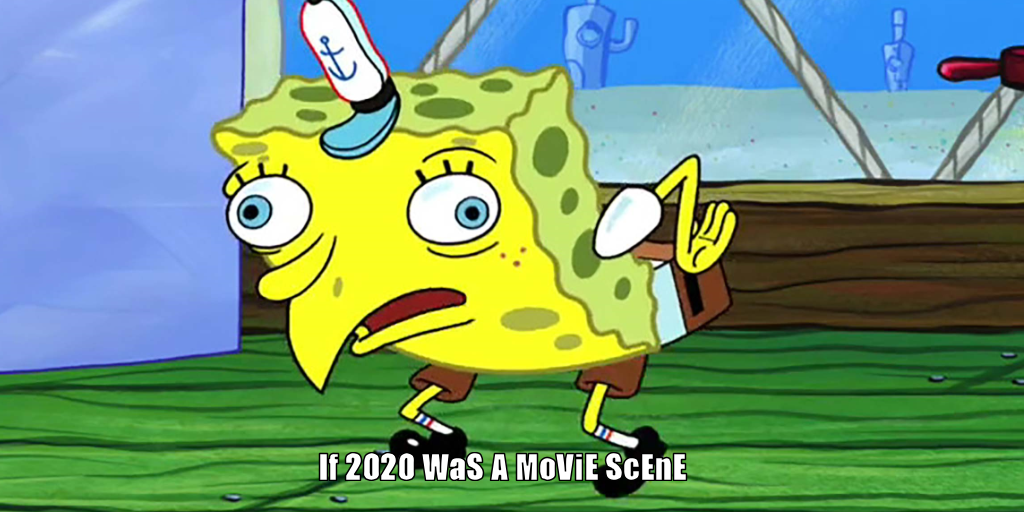
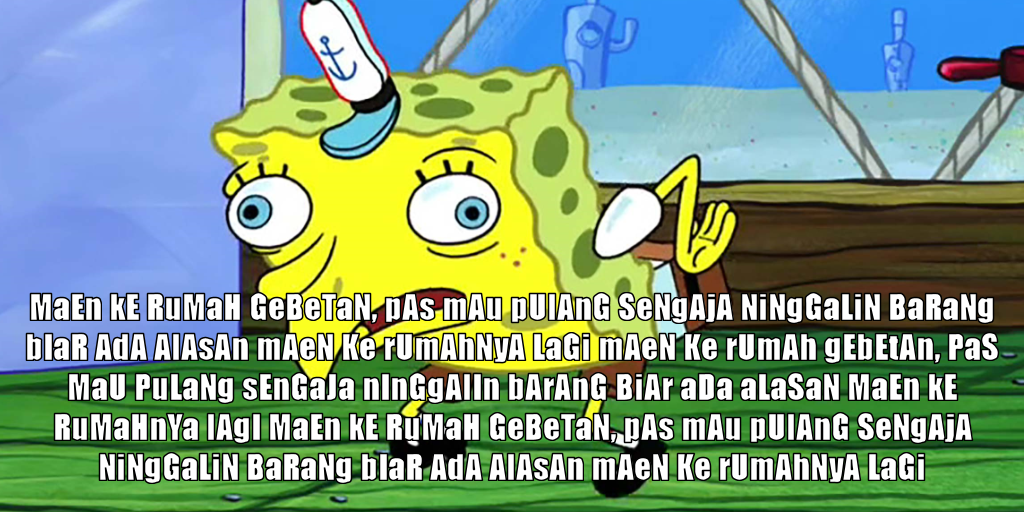
✨ add method mock in emoji

Changed region(s): [[0.0, 0.5625, 1.0, 0.9688]]

diff --git a/Mockit.js b/Mockit.js
@@ -1,8 +1,41 @@
 const config = require('./configuration');
 const Memeify = require('./Memeify');
 const TextFormatter = require('./TextFormatter');
-const { getTargetTweet, updateTweetWithMock } = require('./twitterClient');
+const {
+  getTargetTweet,
+  updateTweetWithMock,
+  updateTweet,
+} = require('./twitterClient');
 const memeGenerator = new Memeify();
+
+async function generateMock(type, mention) {
+  let targetTweetId = mention.in_reply_to_status_id_str;
+  const targetTweet = await getTargetTweet(targetTweetId);
+
+  const textFormatter = new TextFormatter(targetTweet);
+  let imagePath = null;
+  let mockTextResult = null;
+
+  if (type == 'spongebob') {
+    mockTextResult = textFormatter.mockText();
+    imagePath = await memeGenerator.generateMeme(type, mockTextResult);
+  } else if (type == 'khaleesi') {
+    mockTextResult = textFormatter.mickTixt();
+    imagePath = await memeGenerator.generateMeme(type, mockTextResult);
+  }
+
+  updateTweetWithMock(mention.id_str, mockTextResult, imagePath);
+}
+
+async function generateMockEmoji(mention, emoji) {
+  let targetTweetId = mention.in_reply_to_status_id_str;
+  const targetTweet = await getTargetTweet(targetTweetId);
+
+  const textFormatter = new TextFormatter(targetTweet);
+  const textTransformoji = textFormatter.transformoji(emoji);
+
+  updateTweet(mention.id_str, textTransformoji);
+}
 
 async function replyWithMock(event) {
   if (!event.tweet_create_events) {
@@ -20,23 +53,24 @@ async function replyWithMock(event) {
     return;
   }
 
-  if (texts.includes('please')) {
-    let targetUser = mention.in_reply_to_user_id_str;
-    targetUser = Number(targetUser);
+  let targetUser = mention.in_reply_to_user_id_str;
+  targetUser = Number(targetUser);
 
-    if (config.exclusive_ids.includes(targetUser)) {
-      return;
-    } else {
-      let targetTweetId = mention.in_reply_to_status_id_str;
-      const targetTweet = await getTargetTweet(targetTweetId);
-
-      const textFormatter = new TextFormatter(targetTweet);
-      const mockText = textFormatter.mockText();
-
-      const imagePath = await memeGenerator.generateMeme('spongebob', mockText);
-
-      updateTweetWithMock(mention.id_str, mockText, imagePath);
-    }
+  if (config.exclusiveIds.includes(targetUser)) {
+    console.log('Cant mock exclusive ids');
+    return;
+  } else {
+    texts.map(text => {
+      if (text.match(/\bplease/g)) {
+        if (text.length > 6) {
+          generateMockEmoji(mention, text.substr(-2));
+        } else {
+          generateMock('spongebob', mention);
+        }
+      } else if (text.match(/\bpliis/g)) {
+        generateMock('khaleesi', mention);
+      }
+    });
   }
 }
 

diff --git a/playground.js b/playground.js
@@ -4,30 +4,37 @@ const fs = require('fs');
 const { updateTweetWithMock } = require('./twitterClient');
 
 const textFormatter = new TextFormatter(
-  'maen ke rumah gebetan, pas mau pulang sengaja ninggalin barang biar ada alasan maen ke rumahnya lagi'
+  'maen ke rumah gebetan, pas mau pulang sengaja ninggalin barang biar ada alasan maen ke rumahnya lagi maen ke rumah gebetan, pas mau pulang sengaja ninggalin barang biar ada alasan maen ke rumahnya lagi maen ke rumah gebetan, pas mau pulang sengaja ninggalin barang biar ada alasan maen ke rumahnya lagi '
 );
 
 const mockText = textFormatter.mockText();
+const mickTixt = textFormatter.mickTixt();
 
 const memeGenerator = new Memeify();
-
-const sleep = ms => {
-  return new Promise(resolve => {
-    setTimeout(resolve, ms);
-  });
-};
-
-(async () => {
-  const imgPath = await memeGenerator.generateMeme('khaleesi', mockText);
-  await sleep(1500);
-  updateTweetWithMock('1299324070647873536', mockText, imgPath);
-})();
-
 // memeGenerator.generateMeme('spongebob', mockText);
+// memeGenerator.generateMeme('khaleesi', mickTixt);
 
-// const imgPath = fs.readFileSync('./img/mock_spongebob_generated.png');
-// updateTweetWithMock(
-//   '1299524304086818816',
-//   'mockthistweetv2',
-//   './img/mock_spongebob_generated.png'
-// );
+// const sleep = ms => {
+//   return new Promise(resolve => {
+//     setTimeout(resolve, ms);
+//   });
+// };
+
+// (async () => {
+//   const imgPath = await memeGenerator.generateMeme('khaleesi', mockText);
+//   await sleep(1500);
+//   updateTweetWithMock('1299324070647873536', mockText, imgPath);
+// })();
+
+let text = 'please💩 anjay juga'.split(' ');
+text.map(t => {
+  if (t.match(/\bplease/g)) {
+    if (t.length > 6) {
+      console.log('please in emoji');
+      const textTransformoji = textFormatter.transformoji(t.substr(-2));
+      console.log(textTransformoji);
+    } else {
+      console.log('normal please');
+    }
+  }
+});

diff --git a/twitterClient.js b/twitterClient.js
@@ -54,4 +54,22 @@ const updateTweetWithMock = async (replyTargetId, text, img) => {
   );
 };
 
-module.exports = { getTargetTweet, updateTweetWithMock };
+const updateTweet = async (replyTargetId, text) => {
+  return twitterClient.post(
+    'statuses/update',
+    {
+      status: text,
+      in_reply_to_status_id: replyTargetId,
+      auto_populate_reply_metadata: true,
+    },
+    (err, res) => {
+      if (err) {
+        console.log('Error update tweet: ', err);
+      } else {
+        console.log(`Tweeted : ${text}`);
+      }
+    }
+  );
+};
+
+module.exports = { getTargetTweet, updateTweetWithMock, updateTweet };

diff --git a/Memeify.js b/Memeify.js
@@ -33,7 +33,7 @@ class Memeify {
               text: imageCaption,
               alignmentX: Jimp.HORIZONTAL_ALIGN_CENTER,
             },
-            image.bitmap.width - 20,
+            image.bitmap.width,
             image.bitmap.height
           );
           image.write(outputImage);

diff --git a/configuration.js b/configuration.js
@@ -1,5 +1,5 @@
 const config = {
-  exclusive_ids: [1157825461277167616, 1012117785512558592],
+  exclusiveIds: [1157825461277167616, 1012117785512558592],
 };
 
 module.exports = config;
